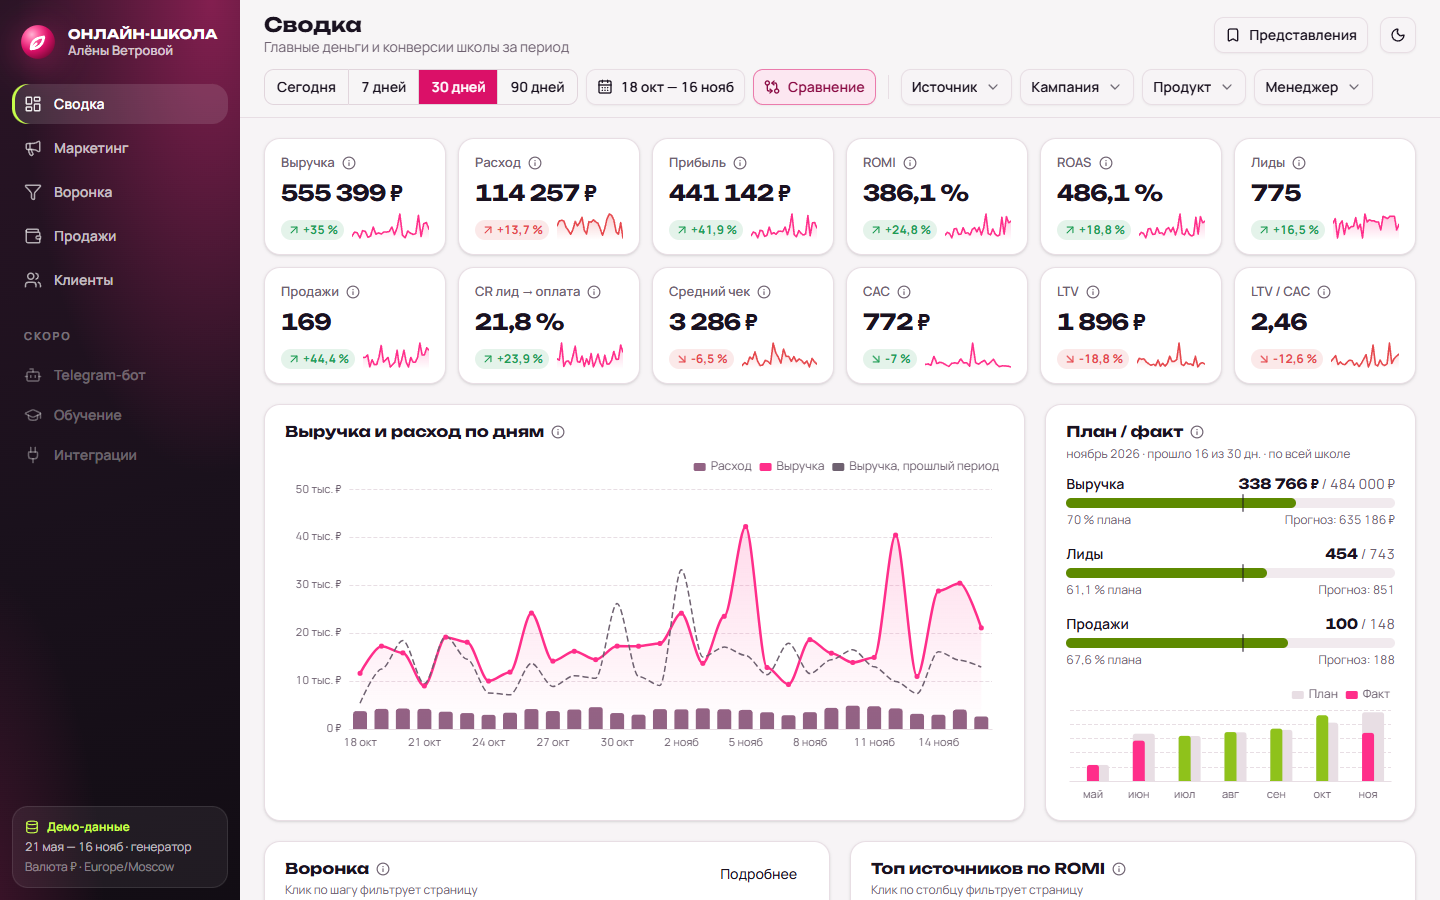
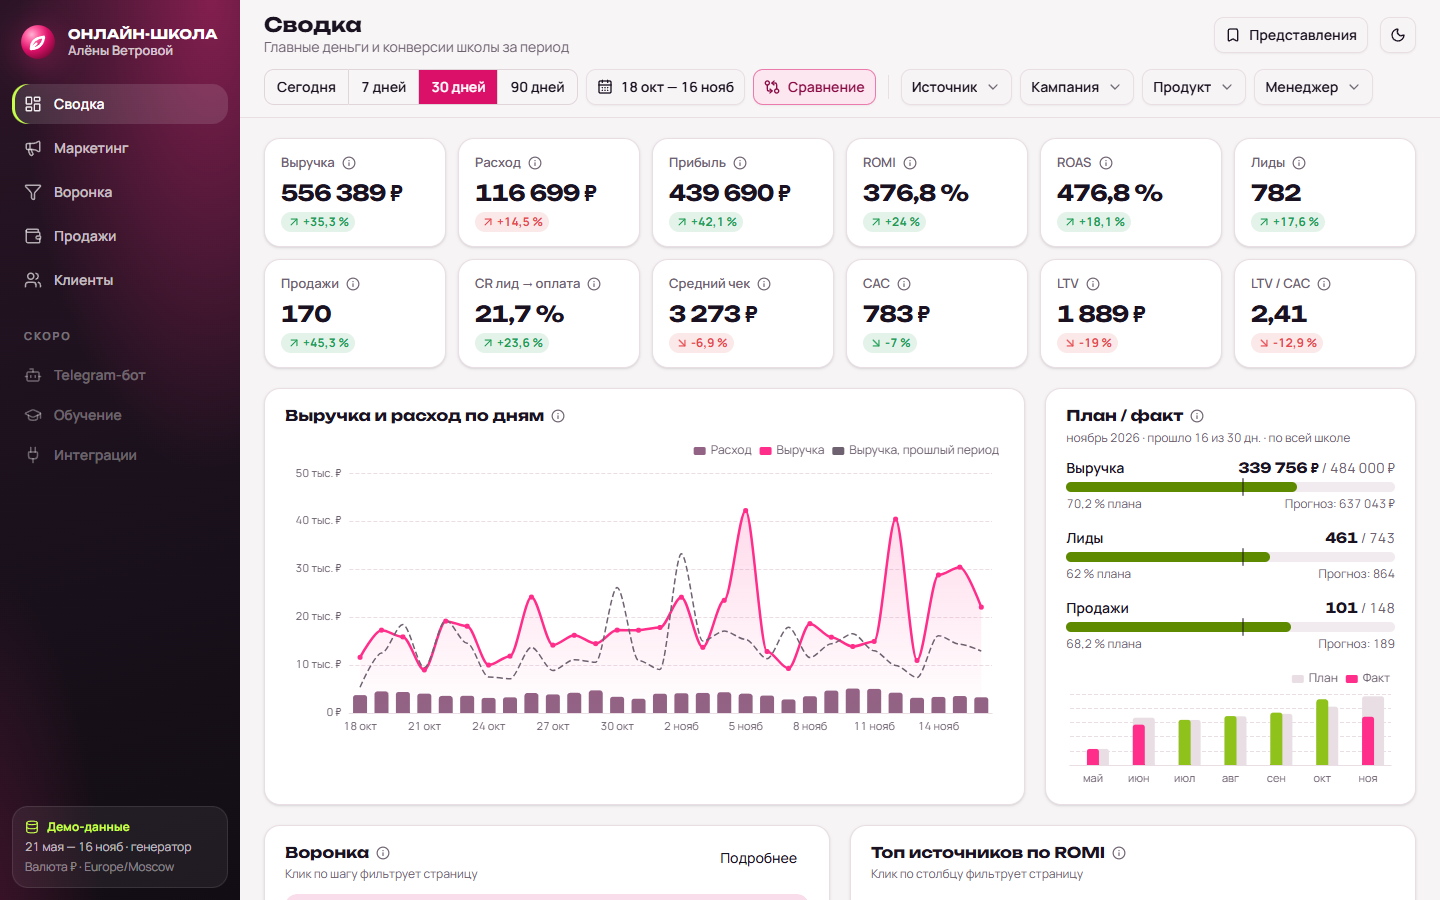
KPI-карточки без мини-графиков; скриншоты пересняты

diff --git a/src/components/widgets/KpiCard.tsx b/src/components/widgets/KpiCard.tsx
@@ -1,4 +1,4 @@
-/** KPI-карточка в стиле Power BI: значение, изменение к прошлому периоду, спарклайн, формула */
+/** KPI-карточка в стиле Power BI: значение, изменение к прошлому периоду, формула */
 import { ArrowDownRight, ArrowUpRight, Minus } from "lucide-react";
 import { Card } from "@/components/ui/card";
 import { Skeleton } from "@/components/ui/skeleton";
@@ -8,7 +8,6 @@ import { metricValue, pctSigned } from "@/lib/format";
 import { cn } from "@/lib/utils";
 import type { KpiValue } from "@/types/dto";
 import { MetricTooltip } from "./MetricTooltip";
-import { Sparkline } from "./Sparkline";
 
 export function KpiCard({ metric, data, loading }: { metric: MetricKey; data?: KpiValue; loading?: boolean }) {
   const def = METRICS[metric];
@@ -17,7 +16,7 @@ export function KpiCard({ metric, data, loading }: { metric: MetricKey; data?: K
       <Card className="gap-2 px-4 py-3.5">
         <Skeleton className="h-3.5 w-24" />
         <Skeleton className="h-7 w-28" />
-        <Skeleton className="h-7 w-full" />
+        <Skeleton className="h-5 w-20" />
       </Card>
     );
   }
@@ -33,7 +32,7 @@ export function KpiCard({ metric, data, loading }: { metric: MetricKey; data?: K
         <MetricTooltip title={def.label} formula={def.formula} />
       </div>
       <div className={cn("font-display text-[22px] font-bold leading-tight tracking-tight", negativeValue && "text-negative")}>{metricValue(data.value, def.format)}</div>
-      <div className="flex items-end justify-between gap-2">
+      <div className="flex items-center">
         {data.prev !== null || ch !== null ? (
           <Tooltip>
             <TooltipTrigger asChild>
@@ -54,9 +53,6 @@ export function KpiCard({ metric, data, loading }: { metric: MetricKey; data?: K
         ) : (
           <span className="text-xs text-muted-foreground">без сравнения</span>
         )}
-        <div className="w-24">
-          <Sparkline values={data.spark} color={good === false ? "var(--negative)" : "var(--chart-1)"} />
-        </div>
       </div>
     </Card>
   );

diff --git a/README.md b/README.md
@@ -21,7 +21,7 @@
 
 - **Сводка:**
   - 12 KPI: выручка, расход, прибыль, ROMI, ROAS, лиды, продажи, CR лид → оплата, средний чек, CAC, LTV, LTV/CAC;
-  - у каждого KPI — изменение к прошлому периоду, спарклайн и формула в тултипе;
+  - у каждого KPI — изменение к прошлому периоду и формула в тултипе;
   - графики: выручка и расход по дням, мини-воронка, топ источников по ROMI, план/факт.
 - **Маркетинг:**
   - показы, клики, CTR, CPM, CPC, CPL, CR клик → лид;
@@ -158,7 +158,7 @@ Seed-генератор (`src/data/mock/generate.ts`, параметры — `co
 |---|---|---|
 | `getMeta()` | `GET /api/meta` | диапазон данных, валюта, таймзона |
 | `getFilterOptions()` | `GET /api/filters/options` | источники, кампании, объявления, продукты, менеджеры |
-| `getKpis(f)` | `GET /api/summary/kpis` | 12 KPI: значение, прошлый период, изменение, спарклайн |
+| `getKpis(f)` | `GET /api/summary/kpis` | 12 KPI: значение, прошлый период, изменение, динамика по дням |
 | `getRevenueSpendSeries(f)` | `GET /api/summary/revenue-spend` | выручка и расход по дням, прошлый период |
 | `getTopSources(f)` | `GET /api/summary/top-sources` | платные источники: расход, выручка, продажи, ROMI |
 | `getPlanFact(f)` | `GET /api/summary/plan-fact` | план и факт месяца, прогноз, история по месяцам |
